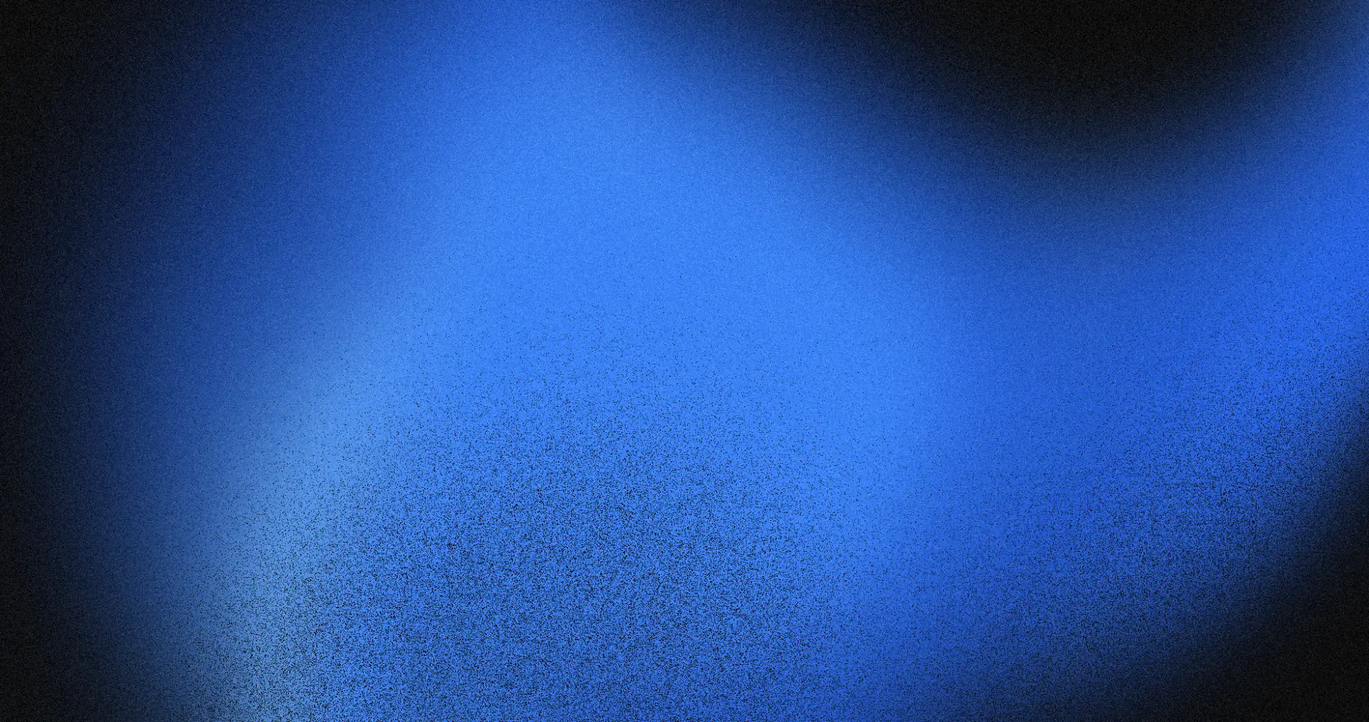
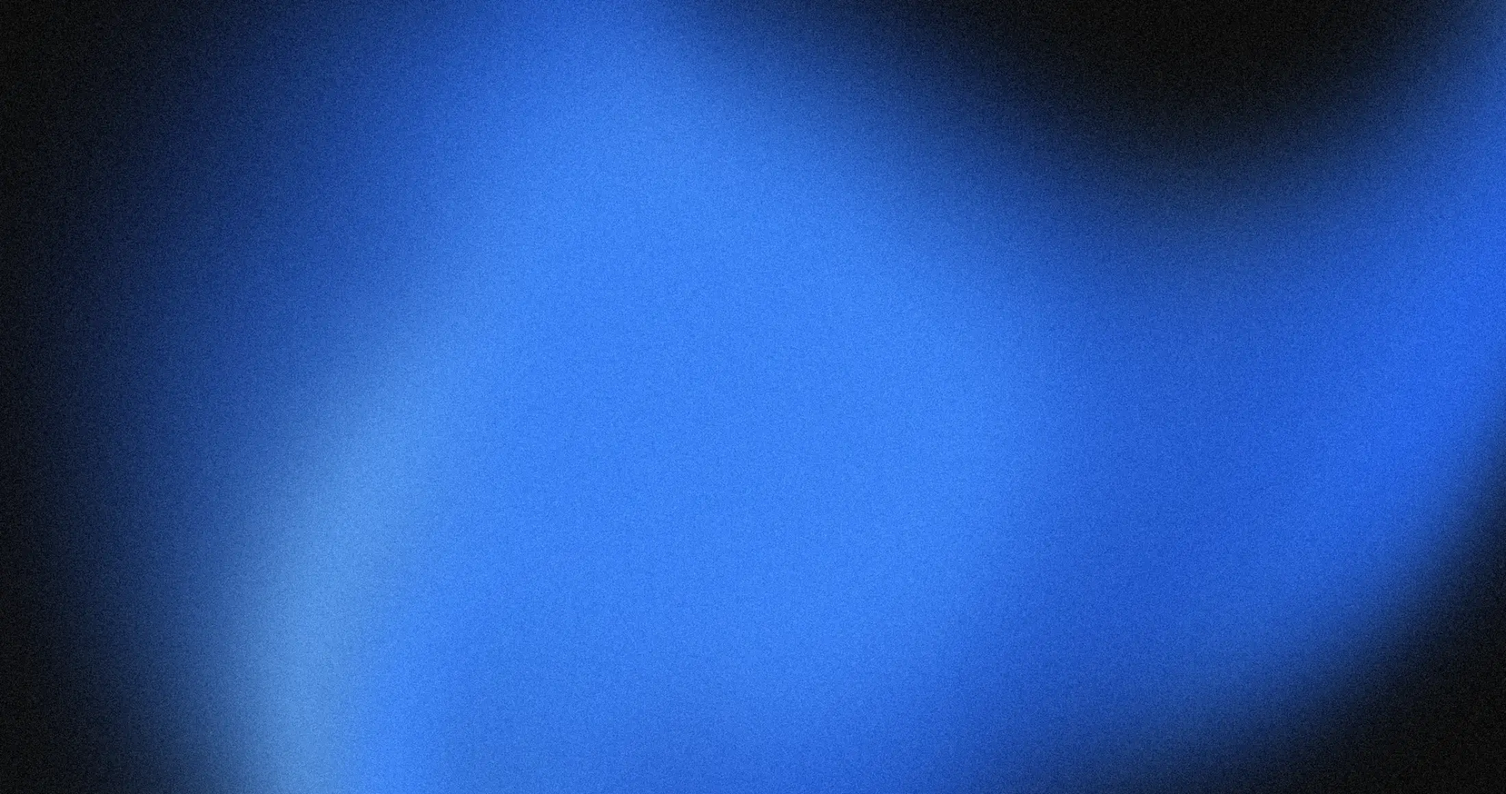
Reduced noise in bg and optimized for mobile

Changed region(s): [[0.124, 0.455, 1.0, 1.0]]

diff --git a/app/layout.tsx b/app/layout.tsx
@@ -23,6 +23,16 @@ export default function RootLayout({
     <html lang="en">
       <body className={`${inter.className}`}>
         <div className="w-screen h-screen absolute top-0 bottom-0 overflow-clip pointer-events-none select-none">
+          <div
+            className={
+              "sm:hidden h-[100dvh] absolute top-0 z-[995] w-full bg-gradient-to-r from-black to-transparent"
+            }
+          />
+          <div
+            className={
+              "sm:hidden h-[30dvh] absolute top-0 z-[995] w-full bg-gradient-to-b from-black to-transparent"
+            }
+          />
           <Image
             src={bg}
             className="z-[990] w-full h-full object-cover object-left-top opacity-60"
